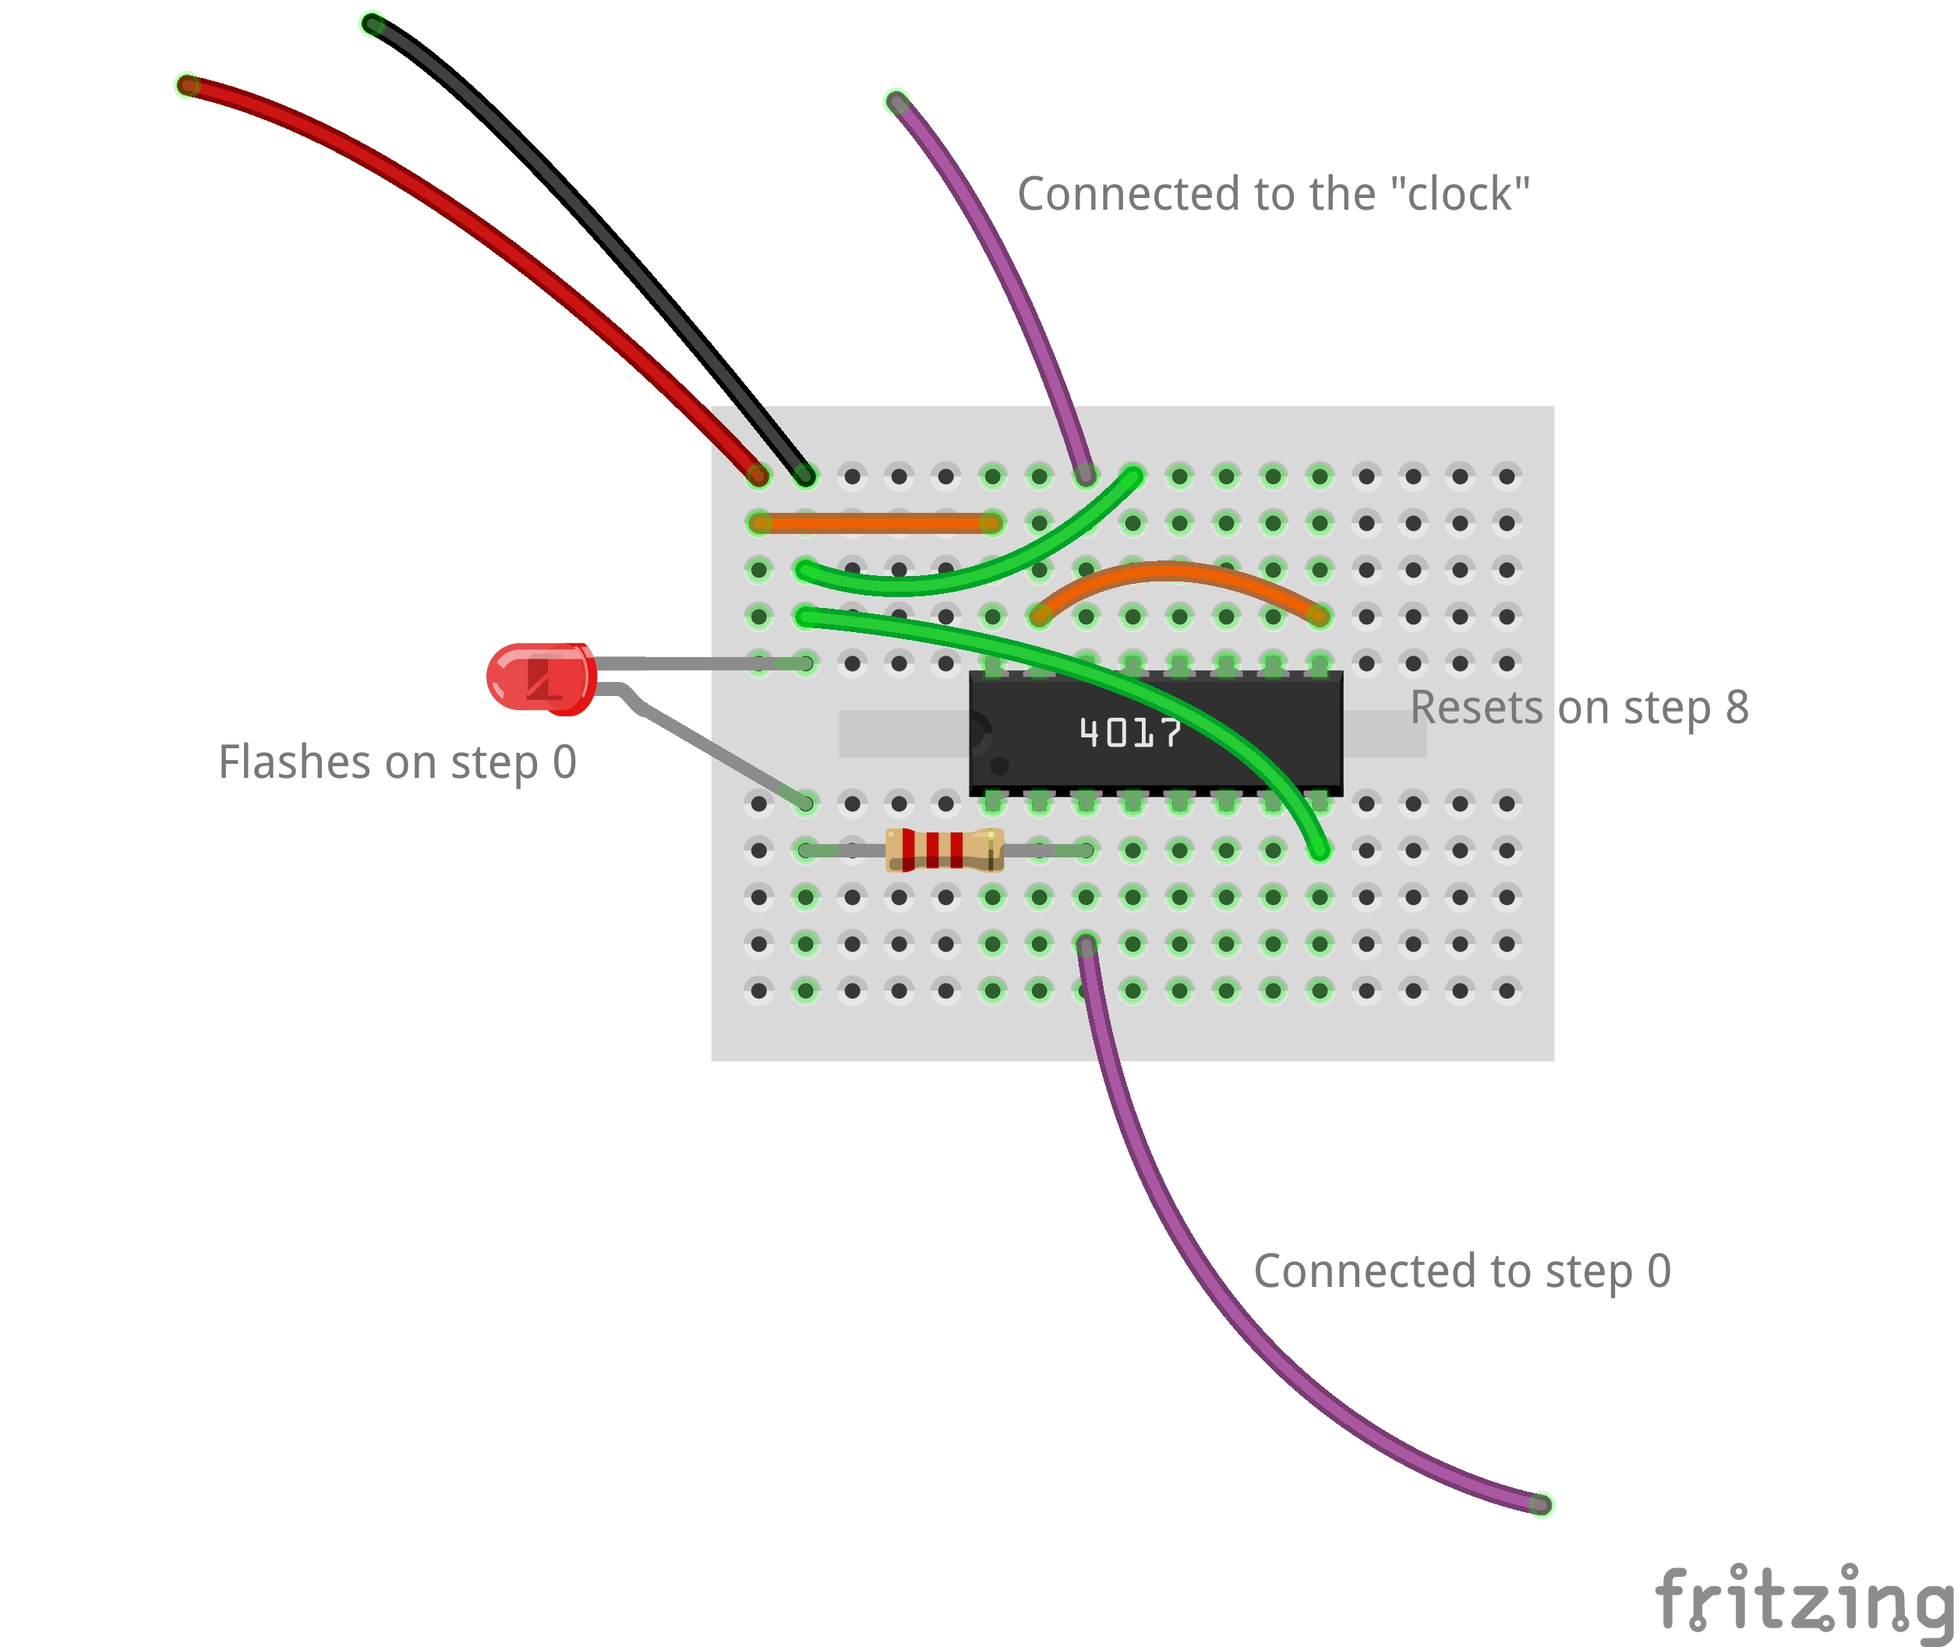
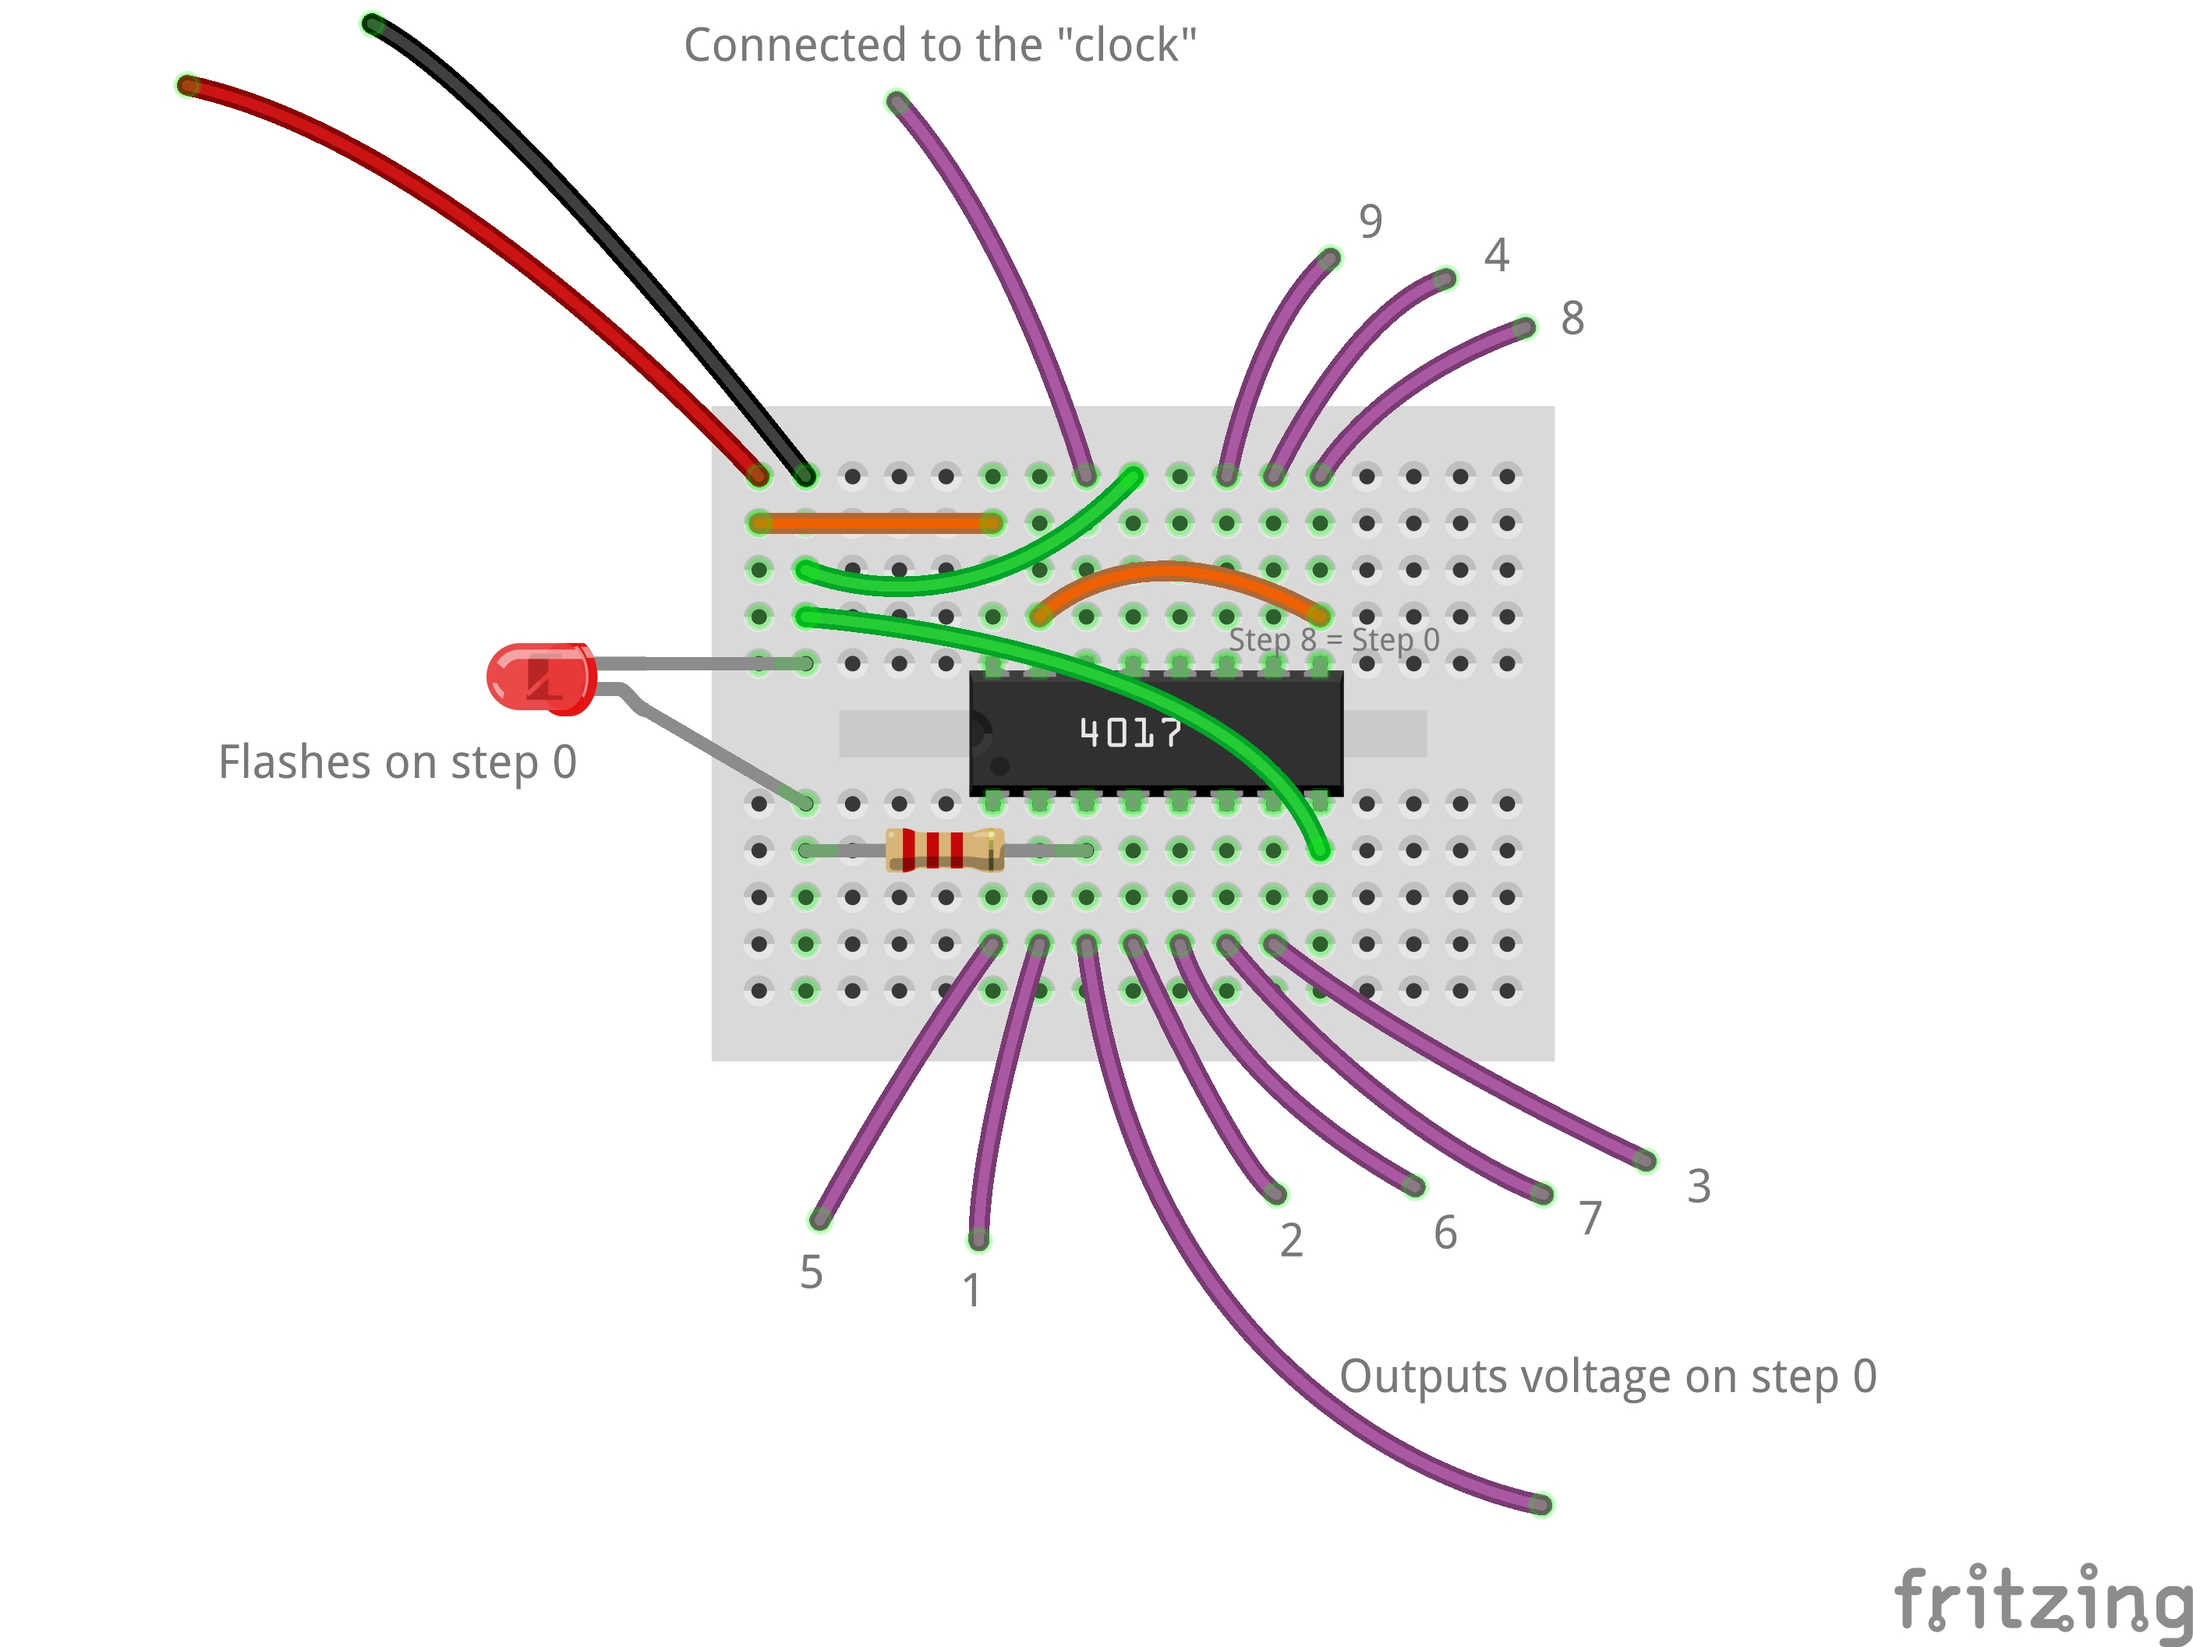
sequencers

Changed region(s): [[0.0622, 0.0, 0.9023, 0.9371], [0.3111, 0.0, 0.5289, 0.1874], [0.84, 0.9371, 1.0, 1.0]]

diff --git a/workshops/oscillators/oscillators.md b/workshops/oscillators/oscillators.md
@@ -39,7 +39,7 @@ So we're going to be making knots of electrical loops, using breadboards. This c
 We're going to build each module on its own mini-breadboard. Each one will be connected to power and ground independently. And each one will take a signal as input from another module, work with it in some way, and then pass it along to the next one. So one way to think about it is that each module is its own loop/circuit between power and ground, and there's one big loop/circuit between modules with the signal. And then within the modules, there's lots of mini-loops. Knotty!
 
 
-### Amplifier
+## Amplifier
 
 You are already familiar with the first loop—it is an amplifier chip. However, this time we're going to power it from the power rail, we're going to add a volume knob and a low-pass filter (to protect our ears), and it will take a signal from our circuit directly.
 
@@ -47,7 +47,7 @@ Additionally, for our purposes now we're going to stick to one channel. So we on
 
 The following diagram shows the connections. The speaker wire is left out; the red and black wires shown go to the power rail. The purple wire is the signal coming in.
 
-_NOTE: to make things fun later on, keep the knobs on your mini-breadboard pointing up and to the right._
+_NOTE: to be able to attach the modules together later in a consistent way, keep the knobs on your mini-breadboard pointing up and to the right._
 
 
 ![](media/amp_bb.jpg)
@@ -67,7 +67,7 @@ Notice that this module uses a capacitor. What is a capacitor?
 
 -->
 
-### Voltage-Controlled Oscillator (VCO)
+## Voltage-Controlled Oscillator (VCO)
 
 The next module is perhaps the most fundamental to synthesis: an oscillator.
 
@@ -80,9 +80,9 @@ What does turning a signal on and off produce? A square wave.
 Hook a square wave up to a speaker, and it becomes a sound wave (a rather buzzy one!).
 
 The CD4046 produces a square wave on one of its pins at a rate that depends on what is connected to the other pins. First of all, we need to connect power and ground. In addition, we'll connect:
-- a potentiometer that controls the frequency of the oscillator by varying the voltage
-- a capacitor (this controls the _range_ of the frequency)
-- a resistor (this controls the _center_ of the frequency range)
+- a potentiometer that will control the frequency of the oscillator by varying the voltage
+- a capacitor that controls the ratio between voltage and frequency
+- a resistor that sets the _maximum_ frequency (we'll leave the minimum set to zero)
 
 Because this circuit controls frequency via voltage, it's called a Voltage-Controlled Oscillator, or VCO, which is a common term in synthesis.
  
@@ -92,12 +92,12 @@ Here is a diagram of the relevant pins on the CD4046:
 
 And here is our circuit:
 
-_NOTE: to make things fun later on, keep the knobs on your mini-breadboard pointing up and to the right._
+_NOTE: to be able to attach the modules together later in a consistent way, keep the knobs on your mini-breadboard pointing up and to the right._
 
 ![](media/vco_bb.jpg)
 
 
-Note the colors on the resistor!
+Note the colors on the resistor! This needs to be 10kΩ of resistance.
 
 
 After building this module, connect power and ground to your power rail. Then, connect the output wire together with the input wire of your amplifier module. Turn it on—you should hear something!
@@ -149,7 +149,7 @@ You can make this into its own module, or use the power-rail breadboard for mixi
 ![](media/mixer_bb.jpg)
 
 
-![](media/hookup_3.jpg)
+![](media/hookup_3.png)
 
 
 ## Sequencer
@@ -173,19 +173,48 @@ The following schematic is wired for 8-steps:
 
 ![](media/sequencer_bb.jpg)
 
-Notice that we've also added an LED (small red light) to step zero so that we can see visually when the sequencer starts over. We could add an LED to every step if we wanted, but that's a lot of wiring. We always have to use a 2.2k resistor with the LED to make sure it doesn't use up all the juice we need for powering our circuit.
+Notice that we've also added an LED (small red light) to step zero so that we can see visually when the sequencer starts over. We could add an LED to every step if we wanted, but that's a lot of wiring. We always have to use a 2.2kΩ resistor with the LED to make sure it doesn't use up all the juice we need for powering our circuit.
+
+Ok, so how do we use this?
+
+### Sequencing a VCO
+
+The most straightforward use is to use the sequencer to turn on and off an oscillator. This means we will need _two_ oscillator modules—one to use as the clock, and one to be the signal that is turned on and off.
+
+Note that we're connecting the signal output on the 0-step pin of the sequencer to the **power** of the VCO.
+
+![](media/hookup_4.png)
+
+Now, this will just turn the VCO on for step 0 of the sequence. What if we want to turn it on for another step?
+
+In this case, we need a diode mixer module. We connect **two** outputs from the sequencer from the steps we want to the mixer. The result then goes to the power.
+
+![](media/hookup_5.png)
+
+If you have an LED on step 0, you'll notice that step 0 produces a different pitch in the VCO. That's because some of the voltage is getting siphoned off to power the LED before it can power the VCO. You can use this to make different tones using one VCO by putting resistors prior to the mixer.
 
 
-<!-- 
-hook up sequencer to another oscillator's power
-...or two oscillators' powers
--->
+### Sequencing two VCOs
+
+Of course, we could also just sequence two (or more) VCOs directly from the sequencer.
 
 
-<!-- 
-hook up sequencer directly to mixer (get intervals)
--->
+![](media/hookup_6.png)
 
+
+### Using sequencers as tone generators
+
+Another option that pushes the definition of "sequencer" a bit is to use the CB4017 as a tone generator. If you just route a step output directly to your amplifier, you'll hear a tone, albeit one at a frequency that is a fraction of the clock VCO. That fraction depends on which step you've wired to be the reset step.
+
+The opportunity here is that with **two** sequencers set to different fractions, you can get musical intervals (you may have noticed this is tricky with pots, sensors, and regular resistors).
+
+In this case, you need to connect the clock VCO to both sequencers (you don't need a mixer for this, just connect them on a breadboard), and then mix the output of both sequencers together.
+
+
+![](media/hookup_7.png)
+
+
+What intervals do you get?
 
 
 

diff --git a/NEXT.md b/NEXT.md
@@ -176,6 +176,8 @@ the flow diagrams are a little weird if the rail-breadboard is going to be used 
 
 don't have the pot hanging over the edge in the diagram, they will copy that directly and make more fragile boards
 
+LFO with the other chip
+
 
 
 
